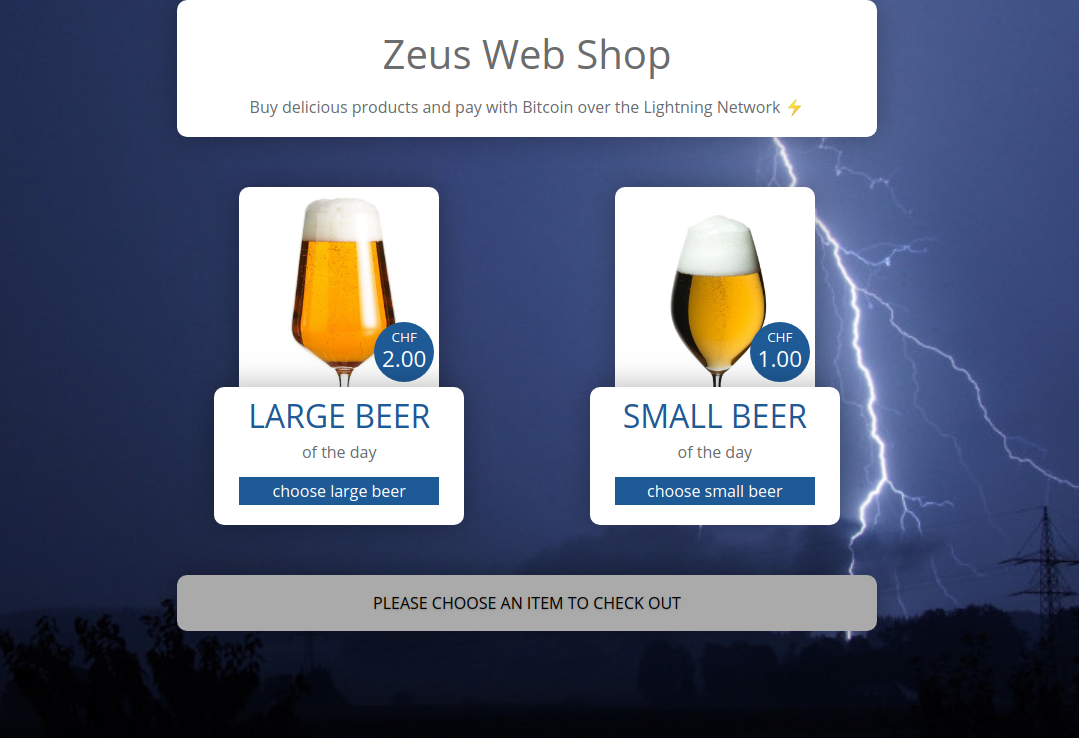
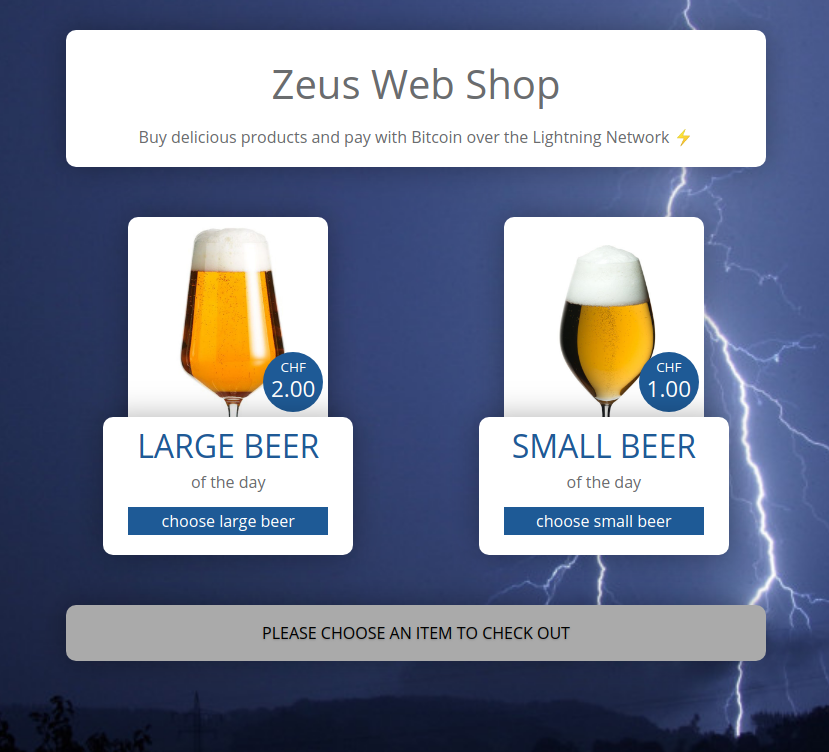
Add margin to header

diff --git a/frontend/src/content/scss/global.scss b/frontend/src/content/scss/global.scss
@@ -29,7 +29,7 @@ html {
         }
 
         header {
-            margin: 0 auto 50px auto;
+            margin: 30px auto 50px auto;
             width: 99%;
 
             @media all and (min-width: 860px) {
